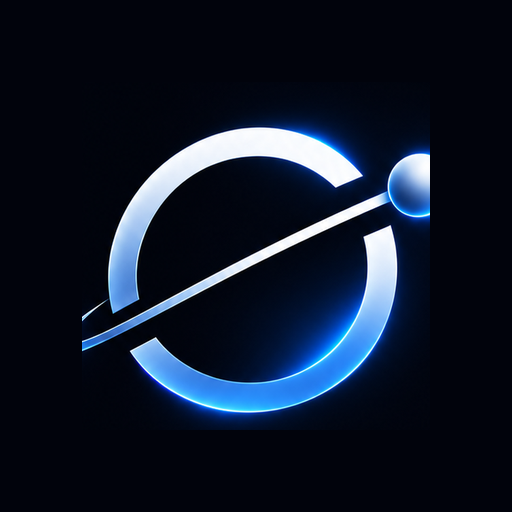
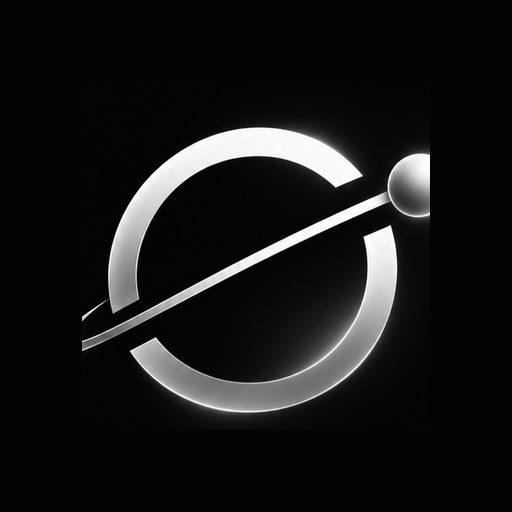
Palette entièrement monochrome (noir/blanc/argent) + photo en hero
Sur retour explicite après preview : plus aucune trace de bleu/violet
dans le design. La rampe de couleur "orbix" (déjà utilisée partout via
les tokens Tailwind) passe du bleu à un dégradé anthracite/argent/acier
— logo, boutons, halos, icônes et favicon recolorés en conséquence
(désaturation préservant la luminosité pour les PNG de marque).

Boutons : `primary` devient une pilule noire pleine (CTA par défaut
dans toute l'app) ; `gradient` devient un dégradé "aluminium brossé"
réservé aux moments de marque les plus mis en avant (hero, pricing en
vedette), pour garder la touche "argent" ciblée plutôt que diluée
partout.

Hero : remplace l'animation orbitale seule par une photo (clavier
rétroéclairé noir/argent, recadrée depuis la photo envoyée pour retirer
une notification iOS qui apparaissait dessus) assombrie par un dégradé,
avec les anneaux orbitaux conservés en surimpression discrète.

Claude-Session: https://claude.ai/code/session_01CAtabxH3aEz511mChdjD5y

Changed region(s): [[0.1562, 0.2188, 0.8438, 0.8438], [0.1562, 0.5938, 0.1875, 0.625]]

diff --git a/src/app/globals.css b/src/app/globals.css
@@ -2,14 +2,14 @@
 @tailwind components;
 @tailwind utilities;
 
-/* Thème clair et minimaliste, dans l'esprit apple.com : fond quasi blanc,
-   texte proche du noir, le bleu Orbix comme unique accent de marque.
-   Les sections "ink" (bandes sombres façon keynote) restent disponibles
-   via les utilitaires .ink-section / .duotone-ink plus bas pour les
-   moments forts (hero, CTA finale), comme sur apple.com. */
+/* Thème entièrement monochrome, dans l'esprit apple.com : fond quasi
+   blanc, texte proche du noir, un accent argent/acier métallisé — plus
+   aucune trace de bleu ni de violet. Les sections "ink" (bandes sombres
+   façon keynote) restent disponibles via les utilitaires .ink-section /
+   .duotone-ink plus bas pour les moments forts (hero, CTA finale). */
 :root {
-  --color-primary: #2f6fed;
-  --color-secondary: #1f56d1;
+  --color-primary: #1d1d1f;
+  --color-secondary: #4f5257;
 
   --surface-base: #ffffff;
   --surface-raised: #fbfbfd;
@@ -45,37 +45,43 @@
   }
 
   ::selection {
-    background-color: rgba(47, 111, 237, 0.18);
+    background-color: rgba(0, 0, 0, 0.1);
     color: #1d1d1f;
   }
 
   :focus-visible {
-    outline: 2px solid #2f6fed;
+    outline: 2px solid #1d1d1f;
     outline-offset: 2px;
   }
 }
 
 @layer utilities {
-  /* ─── Texte en accent bleu (titres, mots-clés) ─────────────── */
+  /* ─── Texte en dégradé métallisé (titres, mots-clés) ───────── */
   .gradient-text {
-    background: linear-gradient(135deg, #2f6fed, #1f56d1);
+    background: linear-gradient(135deg, #0b0b0c, #4f5257);
     -webkit-background-clip: text;
     -webkit-text-fill-color: transparent;
     background-clip: text;
   }
 
   .gradient-primary {
-    background: linear-gradient(135deg, #2f6fed 0%, #1f56d1 100%);
+    background: linear-gradient(135deg, #0b0b0c 0%, #38393d 100%);
+  }
+
+  /* Dégradé "aluminium brossé" — réservé aux accents vraiment mis en
+     avant (bouton de pricing en vedette). */
+  .gradient-metal {
+    background: linear-gradient(100deg, #e8e8ed 0%, #ffffff 35%, #d4d5d9 60%, #f5f5f7 100%);
   }
 
   .gradient-border {
     background: linear-gradient(#ffffff, #ffffff) padding-box,
-      linear-gradient(135deg, #2f6fed, #1f56d1) border-box;
+      linear-gradient(135deg, #b3b5bb, #4f5257) border-box;
     border: 1px solid transparent;
   }
 
   .glow-orbix {
-    box-shadow: 0 0 30px rgba(47, 111, 237, 0.2), 0 0 60px rgba(47, 111, 237, 0.08);
+    box-shadow: 0 0 30px rgba(255, 255, 255, 0.18), 0 0 60px rgba(255, 255, 255, 0.08);
   }
 
   /* ─── Verre dépoli, version claire (nav flottante au scroll) ── */
@@ -106,20 +112,20 @@
     border: 1px solid rgba(255, 255, 255, 0.08);
   }
 
-  /* Overlay appliqué sur les vidéos/photos du hero sombre : dégradé du
-     noir profond vers un bleu Orbix très sourd, pour garder la lisibilité
-     du texte blanc sans recréer l'ancien ton violet. Pas de `position`
-     ici : l'élément qui porte cette classe doit déjà être positionné
-     (ex. Tailwind `absolute`). */
+  /* Overlay appliqué sur la photo du hero sombre : dégradé du noir
+     profond vers un gris anthracite très sourd, pour garder la
+     lisibilité du texte blanc sans jamais introduire de teinte colorée.
+     Pas de `position` ici : l'élément qui porte cette classe doit déjà
+     être positionné (ex. Tailwind `absolute`). */
   .duotone-ink::after {
     content: '';
     position: absolute;
     inset: 0;
     background: linear-gradient(
       165deg,
-      rgba(8, 10, 20, 0.92) 0%,
-      rgba(10, 14, 28, 0.88) 45%,
-      rgba(0, 0, 0, 0.96) 100%
+      rgba(0, 0, 0, 0.9) 0%,
+      rgba(10, 10, 11, 0.85) 45%,
+      rgba(0, 0, 0, 0.97) 100%
     );
     mix-blend-mode: normal;
   }

diff --git a/tailwind.config.ts b/tailwind.config.ts
@@ -7,22 +7,23 @@ const config: Config = {
   theme: {
     extend: {
       // ─── COULEURS ─────────────────────────────────────────
-      // Palette claire et minimaliste (identité "Engineering Tomorrow" :
-      // anneau orbital bleu + sphère argentée). Le bleu Orbix remplace le
-      // violet d'origine comme unique couleur de marque ; le reste du site
-      // est en niveaux de gris quasi neutres, dans l'esprit apple.com.
+      // Palette entièrement monochrome : noir profond, blanc, et une rampe
+      // argent/acier métallisé comme seul accent — plus aucune trace de
+      // bleu ni de violet. `orbix` reste le nom du token (déjà utilisé
+      // partout dans le code) mais porte maintenant cette rampe grise
+      // métallisée plutôt qu'une couleur de marque saturée.
       colors: {
         orbix: {
-          50: '#eef4ff',
-          100: '#dbe7ff',
-          200: '#b8d0ff',
-          300: '#8ab1ff',
-          400: '#5790ff',
-          500: '#2f6fed',
-          600: '#1f56d1',
-          700: '#1942a8',
-          800: '#173686',
-          900: '#152f6b',
+          50: '#f7f7f8',
+          100: '#ececef',
+          200: '#d4d5d9',
+          300: '#b3b5bb',
+          400: '#8c8f96',
+          500: '#6b6e74',
+          600: '#4f5257',
+          700: '#38393d',
+          800: '#242427',
+          900: '#141415',
         },
         ink: {
           900: '#000000',
@@ -46,7 +47,7 @@ const config: Config = {
         success: '#10b981',
         warning: '#f59e0b',
         error: '#ef4444',
-        info: '#2f6fed',
+        info: '#4f5257',
       },
 
       // ─── TYPOGRAPHIE ──────────────────────────────────────
@@ -96,7 +97,7 @@ const config: Config = {
       // Ombres douces et peu contrastées (esprit apple.com : la profondeur
       // vient du flou, pas de la couleur).
       boxShadow: {
-        'glow-orbix': '0 0 24px rgba(47, 111, 237, 0.25)',
+        'glow-orbix': '0 0 24px rgba(255, 255, 255, 0.2)',
         subtle: '0 1px 2px rgba(0, 0, 0, 0.04), 0 1px 1px rgba(0, 0, 0, 0.03)',
         card: '0 2px 10px rgba(0, 0, 0, 0.06)',
         'card-hover': '0 20px 48px rgba(0, 0, 0, 0.12)',
@@ -123,8 +124,8 @@ const config: Config = {
           '100%': { transform: 'translateX(0)' },
         },
         'pulse-glow': {
-          '0%, 100%': { boxShadow: '0 0 10px rgba(47, 111, 237, 0.25)' },
-          '50%': { boxShadow: '0 0 26px rgba(47, 111, 237, 0.5)' },
+          '0%, 100%': { boxShadow: '0 0 10px rgba(255, 255, 255, 0.3)' },
+          '50%': { boxShadow: '0 0 26px rgba(255, 255, 255, 0.6)' },
         },
         orbit: {
           '0%': { transform: 'rotate(0deg)' },

diff --git a/src/components/ui/Button.tsx b/src/components/ui/Button.tsx
@@ -5,30 +5,33 @@ import { Loader2 } from 'lucide-react'
 
 import { cn } from '@/lib/utils'
 
-// Boutons "pilule" façon apple.com : formes pleines et pleinement
-// arrondies, pas de dégradés voyants ni de lueurs — juste un bleu Orbix
-// plein, une transition douce et un léger effet d'échelle au clic.
+// Boutons "pilule" façon apple.com : pleinement arrondis, pas de lueur
+// colorée. `primary` est une pilule noire pleine (le CTA par défaut,
+// partout dans l'app) ; `gradient` est réservé aux moments de marque les
+// plus mis en avant (hero, pricing en vedette) et prend un dégradé
+// "aluminium brossé" avec du texte sombre — c'est la seule touche
+// "argent" du système de boutons, pour ne pas la diluer partout.
 const buttonVariants = cva(
-  'inline-flex items-center justify-center gap-2 font-display font-semibold tracking-tight transition-all duration-200 ease-apple focus-visible:outline-none focus-visible:ring-2 focus-visible:ring-orbix-500 focus-visible:ring-offset-2 focus-visible:ring-offset-surface-base disabled:opacity-40 disabled:cursor-not-allowed',
+  'inline-flex items-center justify-center gap-2 font-display font-semibold tracking-tight transition-all duration-200 ease-apple focus-visible:outline-none focus-visible:ring-2 focus-visible:ring-ink-900 focus-visible:ring-offset-2 focus-visible:ring-offset-surface-base disabled:opacity-40 disabled:cursor-not-allowed',
   {
     variants: {
       variant: {
-        primary: ['bg-orbix-500 text-text-inverse', 'hover:bg-orbix-600', 'active:scale-[0.97]'],
+        primary: ['bg-ink-900 text-text-inverse', 'hover:bg-ink-700', 'active:scale-[0.97]'],
         secondary: [
           'bg-surface-muted text-text-primary border border-surface-border',
-          'hover:border-orbix-500/40 hover:bg-surface-overlay',
+          'hover:border-orbix-400/50 hover:bg-surface-overlay',
           'active:scale-[0.97]',
         ],
         ghost: ['text-text-secondary', 'hover:text-text-primary hover:bg-surface-overlay'],
         destructive: ['bg-error/10 text-error border border-error/20', 'hover:bg-error/20'],
         gradient: [
-          'bg-orbix-500 text-text-inverse',
-          'hover:bg-orbix-600 hover:scale-[1.015]',
+          'gradient-metal text-ink-900 shadow-subtle',
+          'hover:scale-[1.015]',
           'active:scale-[0.97]',
         ],
         outline: [
-          'border border-orbix-500/40 text-orbix-600',
-          'hover:bg-orbix-50 hover:border-orbix-500',
+          'border border-orbix-400/50 text-orbix-700',
+          'hover:bg-orbix-50 hover:border-orbix-600',
         ],
       },
       size: {

diff --git a/src/components/marketing/Hero.tsx b/src/components/marketing/Hero.tsx
@@ -1,3 +1,4 @@
+import Image from 'next/image'
 import Link from 'next/link'
 import { ArrowRight } from 'lucide-react'
 
@@ -6,16 +7,29 @@ import { Button } from '@/components/ui/Button'
 import { OrbixLogo } from '@/components/layout/OrbixLogo'
 import { HeroOrbit } from './HeroOrbit'
 
-// Hero en bande sombre façon keynote : grand titre centré, logo en filigrane
-// lumineux, fond animé (anneaux orbitaux + étoiles, voir HeroOrbit) plutôt
-// qu'une vidéo — net à toute résolution et cohérent avec l'identité de
-// marque. Contraste volontaire avec le reste du site, désormais clair :
-// c'est le seul "moment fort" sombre de la page d'accueil, comme Apple le
-// fait sur ses pages de lancement.
+// Hero en bande sombre façon keynote : grand titre centré, logo en
+// filigrane, photo en fond (clavier rétroéclairé, noir brillant/argent)
+// assombrie par un dégradé, avec les anneaux orbitaux en surimpression
+// discrète pour la touche de mouvement et de marque. Contraste volontaire
+// avec le reste du site, désormais clair : c'est le seul "moment fort"
+// sombre de la page d'accueil, comme Apple le fait sur ses pages de
+// lancement — entièrement monochrome, aucune couleur de marque saturée.
 export function Hero() {
   return (
     <section className="ink-section relative isolate flex min-h-[92vh] items-center overflow-hidden pt-14">
-      <HeroOrbit />
+      <div className="duotone-ink absolute inset-0 -z-20">
+        <Image
+          src="/hero-keyboard.jpg"
+          alt=""
+          fill
+          priority
+          sizes="100vw"
+          className="object-cover object-[70%_40%] opacity-80"
+        />
+      </div>
+      <div className="-z-10">
+        <HeroOrbit />
+      </div>
 
       <Container className="relative flex flex-col items-center py-24 text-center md:py-32">
         <OrbixLogo variant="mono" className="mb-8 h-16 w-16 animate-fade-in md:h-20 md:w-20" />
@@ -38,7 +52,7 @@ export function Hero() {
         >
           <Button variant="primary" size="xl" asChild>
             <Link href="/auth/register">
-              Get Started <ArrowRight className="h-4 w-4" />
+              Commencer <ArrowRight className="h-4 w-4" />
             </Link>
           </Button>
           <Button

diff --git a/src/components/layout/OrbixLogo.tsx b/src/components/layout/OrbixLogo.tsx
@@ -1,12 +1,13 @@
 // Marque Orbix Labs : anneau orbital + satellite, dessinée en SVG inline
 // (plutôt qu'un PNG exporté) pour rester parfaitement nette à toute taille
-// et sur tous les écrans, et pour pouvoir changer de teinte selon le fond
-// (bleu Orbix sur fond clair, argenté sur les bandes sombres type keynote).
+// et sur tous les écrans, et pour pouvoir changer de teinte selon le fond.
+// Entièrement monochrome : pas de bleu — un dégradé anthracite/acier sur
+// fond clair, un dégradé blanc/argent sur les bandes sombres.
 //
 // `variant="mono"` donne la version claire (blanc/argenté), à utiliser sur
 // les sections sombres (Hero, bandeau CTA final, footer si jamais il
-// repasse en sombre). Par défaut, la version bleu Orbix pour le reste du
-// site, désormais clair.
+// repasse en sombre). Par défaut, la version anthracite/acier pour le
+// reste du site, désormais clair.
 export function OrbixLogo({
   className,
   variant = 'default',
@@ -14,8 +15,8 @@ export function OrbixLogo({
   className?: string
   variant?: 'default' | 'mono'
 }) {
-  const ringId = variant === 'mono' ? 'orbix-ring-mono' : 'orbix-ring-blue'
-  const sphereId = variant === 'mono' ? 'orbix-sphere-mono' : 'orbix-sphere-blue'
+  const ringId = variant === 'mono' ? 'orbix-ring-mono' : 'orbix-ring-ink'
+  const sphereId = variant === 'mono' ? 'orbix-sphere-mono' : 'orbix-sphere-ink'
 
   return (
     <svg viewBox="0 0 48 48" className={className} role="img" aria-label="Orbix Labs">
@@ -28,8 +29,8 @@ export function OrbixLogo({
             </>
           ) : (
             <>
-              <stop offset="0%" stopColor="#5790ff" />
-              <stop offset="100%" stopColor="#1f56d1" />
+              <stop offset="0%" stopColor="#4f5257" />
+              <stop offset="100%" stopColor="#0b0b0c" />
             </>
           )}
         </linearGradient>
@@ -41,8 +42,8 @@ export function OrbixLogo({
             </>
           ) : (
             <>
-              <stop offset="0%" stopColor="#bcd6ff" />
-              <stop offset="100%" stopColor="#2f6fed" />
+              <stop offset="0%" stopColor="#9a9da3" />
+              <stop offset="100%" stopColor="#1d1d1f" />
             </>
           )}
         </radialGradient>

diff --git a/src/components/marketing/HeroOrbit.tsx b/src/components/marketing/HeroOrbit.tsx
@@ -21,8 +21,8 @@ export function HeroOrbit() {
     <div className="pointer-events-none absolute inset-0 overflow-hidden" aria-hidden="true">
       {/* Halo central diffus */}
       <div
-        className="absolute left-1/2 top-1/2 h-[70vmin] w-[70vmin] -translate-x-1/2 -translate-y-1/2 rounded-full opacity-40 blur-3xl"
-        style={{ background: 'radial-gradient(circle, rgba(47,111,237,0.5) 0%, rgba(47,111,237,0) 70%)' }}
+        className="absolute left-1/2 top-1/2 h-[70vmin] w-[70vmin] -translate-x-1/2 -translate-y-1/2 rounded-full opacity-30 blur-3xl"
+        style={{ background: 'radial-gradient(circle, rgba(255,255,255,0.35) 0%, rgba(255,255,255,0) 70%)' }}
       />
 
       {/* Étoiles */}
@@ -48,12 +48,12 @@ export function HeroOrbit() {
       >
         <defs>
           <linearGradient id="hero-ring-a" x1="0" y1="0" x2="1" y2="1">
-            <stop offset="0%" stopColor="#5790ff" />
-            <stop offset="100%" stopColor="#1f56d1" />
+            <stop offset="0%" stopColor="#ffffff" />
+            <stop offset="100%" stopColor="#8c8f96" />
           </linearGradient>
           <linearGradient id="hero-ring-b" x1="1" y1="0" x2="0" y2="1">
-            <stop offset="0%" stopColor="#8ab1ff" />
-            <stop offset="100%" stopColor="#2f6fed" />
+            <stop offset="0%" stopColor="#d4d5d9" />
+            <stop offset="100%" stopColor="#f7f7f8" />
           </linearGradient>
         </defs>
 

diff --git a/src/components/marketing/ServicesGrid.tsx b/src/components/marketing/ServicesGrid.tsx
@@ -82,7 +82,7 @@ function ServiceTile({ service, delay }: { service: (typeof services)[number]; d
         <div
           className="absolute inset-0 opacity-70 transition-opacity duration-500 group-hover:opacity-100"
           style={{
-            background: `radial-gradient(circle at ${service.glow}, rgba(47,111,237,0.5) 0%, rgba(47,111,237,0) 55%)`,
+            background: `radial-gradient(circle at ${service.glow}, rgba(255,255,255,0.22) 0%, rgba(255,255,255,0) 55%)`,
           }}
         />
         <div className="absolute inset-0 bg-gradient-to-t from-black/70 via-black/10 to-transparent" />

diff --git a/src/app/manifest.ts b/src/app/manifest.ts
@@ -8,7 +8,7 @@ export default function manifest(): MetadataRoute.Manifest {
     start_url: '/dashboard',
     display: 'standalone',
     background_color: '#ffffff',
-    theme_color: '#2f6fed',
+    theme_color: '#1d1d1f',
     orientation: 'portrait',
     icons: [
       { src: '/icon-192.png', sizes: '192x192', type: 'image/png', purpose: 'any' },

diff --git a/src/app/dashboard/settings/page.tsx b/src/app/dashboard/settings/page.tsx
@@ -11,7 +11,7 @@ export default function SettingsPage() {
         <UserProfile
           appearance={{
             variables: {
-              colorPrimary: '#2f6fed',
+              colorPrimary: '#1d1d1f',
               colorBackground: '#fbfbfd',
               colorText: '#1d1d1f',
               colorTextSecondary: '#6e6e73',
